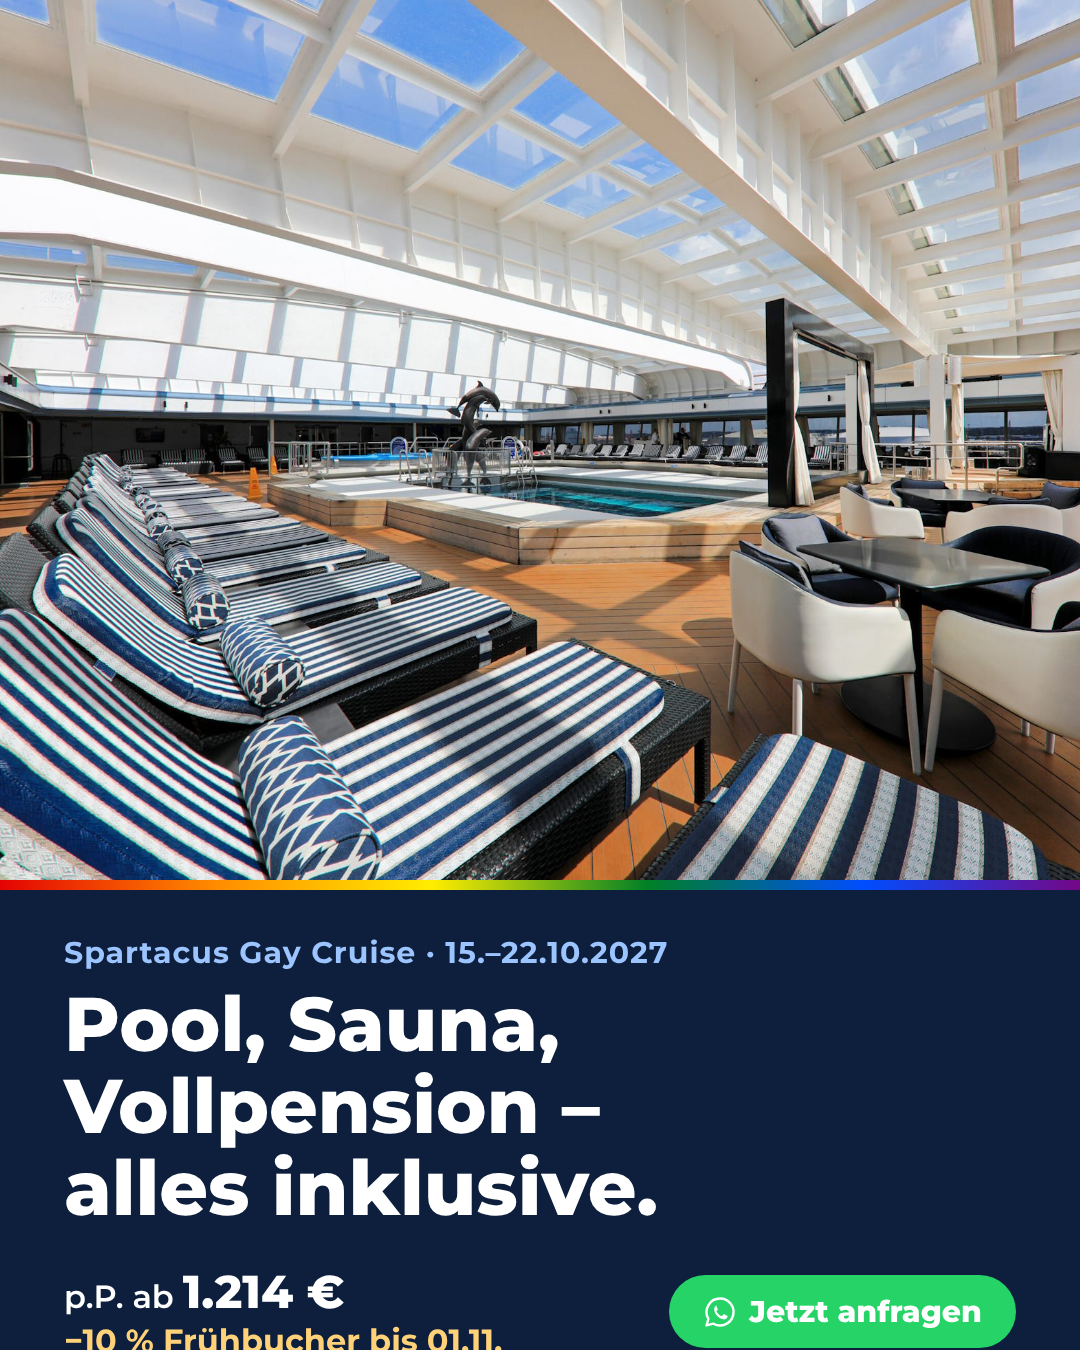
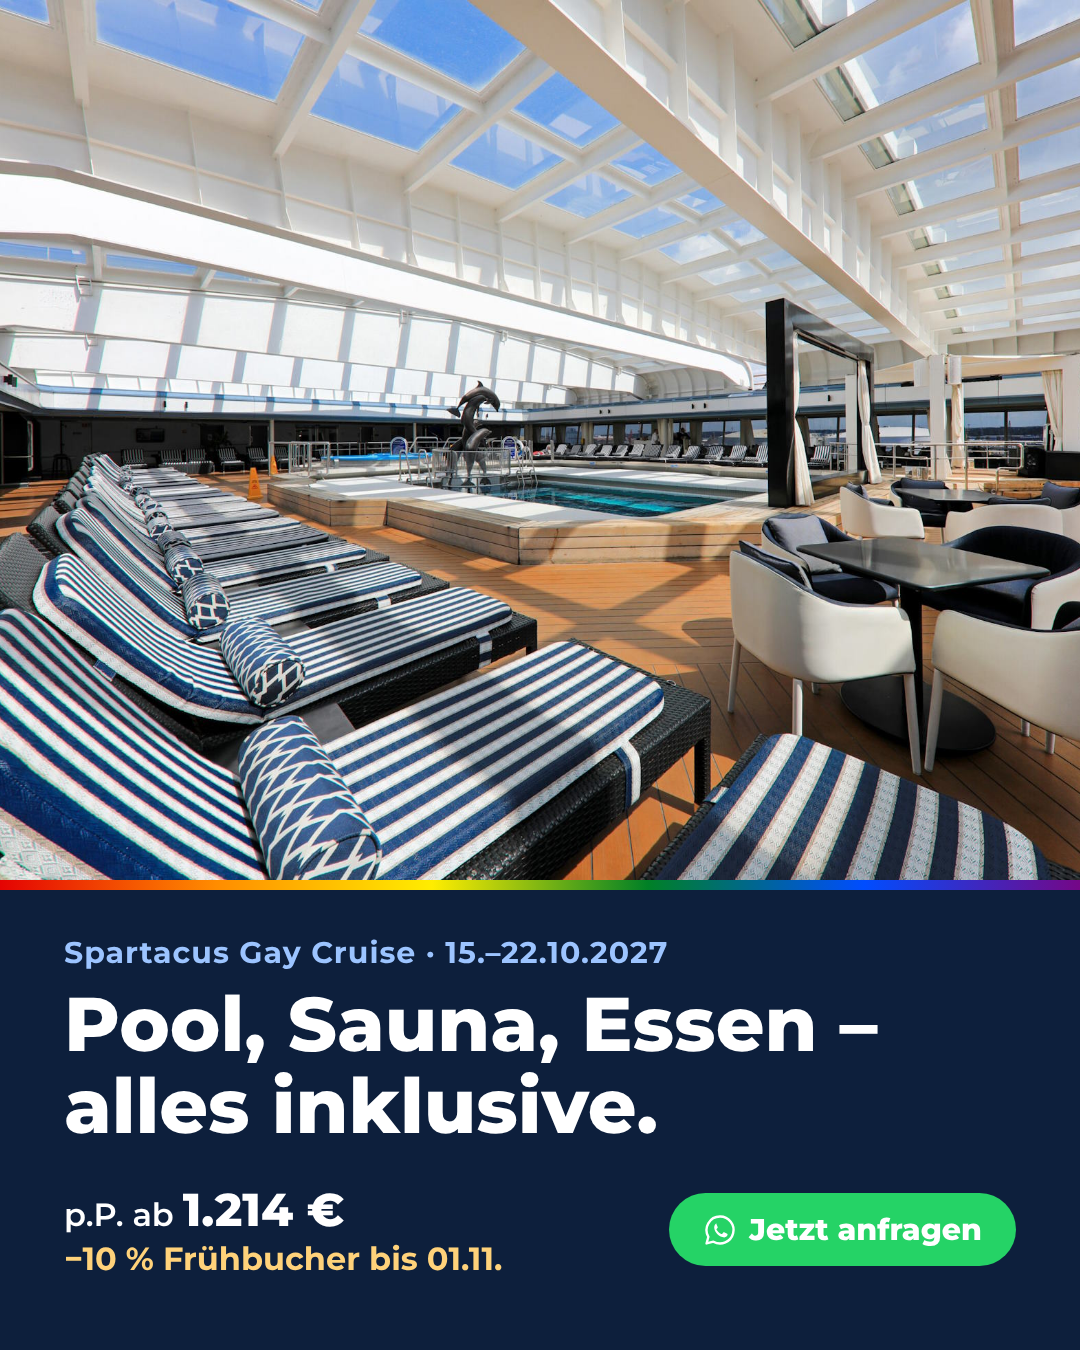
Spartacus pool creative: factual two-line headline
Claude-Session: https://claude.ai/code/session_01WaKFhgz8ZvCc2eJNCdq1KM

Changed region(s): [[0.0611, 0.7778, 0.9472, 1.0], [0.5194, 0.7156, 0.825, 0.7778]]

diff --git a/creatives/spartacus-cruise/02-pool.html b/creatives/spartacus-cruise/02-pool.html
@@ -17,7 +17,7 @@ body{width:1080px;height:1350px;font-family:Montserrat,sans-serif;color:#fff;ove
 <img class="photo" src="pool.jpg"><div class="rainbow"></div>
 <div class="panel">
   <div class="kicker">Spartacus Gay Cruise · 15.–22.10.2027</div>
-  <div class="h">Pool, Sauna, Vollpension –<br>alles inklusive.</div>
+  <div class="h">Pool, Sauna, Essen –<br>alles inklusive.</div>
   <div class="row">
     <div class="price">p.P. ab <b>1.214 €</b><br><span>−10 % Frühbucher bis 01.11.</span></div>
     <div class="cta"><svg width="34" height="34" viewBox="0 0 48 48" fill="none" stroke="#fff" stroke-width="3.4" stroke-linejoin="round"><path d="M24 5a19 19 0 0 0-16.4 28.6L5 43l9.7-2.5A19 19 0 1 0 24 5z"/><path fill="#fff" stroke="none" d="M17.6 14.6c.5 0 1 0 1.3.8l1.8 4.3c.2.4.1.9-.2 1.3l-1.3 1.6c-.3.3-.3.8 0 1.2 1.6 2.7 3.8 4.6 6.6 5.9.4.2.9.1 1.2-.2l1.6-1.9c.3-.4.8-.5 1.3-.3l4.2 2c.5.2.7.7.6 1.2-.3 2.3-2.3 4-4.6 4-7.4-.5-13.7-6.6-14.3-14 0-2.6 1.6-5.7 3.8-5.9z"/></svg>Jetzt anfragen</div>
